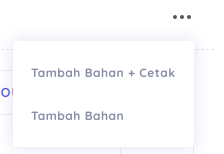
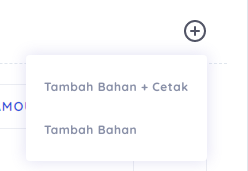
tambah gambar

diff --git a/build/html/searchindex.js b/build/html/searchindex.js
@@ -1,1 +1,1 @@
-Search.setIndex({docnames:["_apps/master-machines","_apps/master-paper-size","_apps/master-paper-types","_apps/menu-transaction","_intro/intro","_intro/langkah-pertama","index"],envversion:{"sphinx.domains.c":2,"sphinx.domains.changeset":1,"sphinx.domains.citation":1,"sphinx.domains.cpp":3,"sphinx.domains.index":1,"sphinx.domains.javascript":2,"sphinx.domains.math":2,"sphinx.domains.python":2,"sphinx.domains.rst":2,"sphinx.domains.std":2,sphinx:56},filenames:["_apps/master-machines.rst","_apps/master-paper-size.rst","_apps/master-paper-types.rst","_apps/menu-transaction.rst","_intro/intro.rst","_intro/langkah-pertama.rst","index.rst"],objects:{},objnames:{},objtypes:{},terms:{"220px":[],"282017":[],CMS:[],_static:[],about:[],ada:3,adalah:[],adsfasdfa:[0,1,2],akan:[3,4,5],aks:5,all:[],anda:3,angka:3,antar:3,apidco:[],aplikasi:6,arkestra:[],asdfalkjlakjfa:[],asdfasdf:[],asdfasdfadf:[0,1,2],asdfasdfasdf:5,asdfasdfasdfasdf:[0,1,2],asdfkajhfjhasdf:5,ata:[3,5],atau:3,banyak:3,bawah:5,beberapa:3,belum:3,bend:3,berapa:3,berisi:3,bersifat:4,biaya:4,bisa:[3,4],bla:[0,1,2],box:3,common:[],content:[],contoh:3,contribut:[],creat:3,custom:4,daftar:[],dahulu:[],dalam:[3,4],dan:3,daniel:[],dapat:3,dari:[3,4],data:[3,4],dengan:[3,4],desain:3,deskripsi:3,detail:[4,6],develop:[],diarahkan:3,diarakan:3,dibawah:5,dibutuhkan:3,dicetak:3,digunakan:[0,1,2,3],diikuti:3,diinginkan:3,diisi:3,dikehendaki:3,diluar:3,disamp:3,disarankan:3,ditanggung:4,django:[],dll:3,email:[],finish:3,form:3,gambar:5,hadir:4,halaman:[5,6],hampir:3,hanya:4,harga:3,haru:[],hasil:3,hitungan:4,http:[],imag:[],img:[],img_logo_:[],indek:6,info:[],ini:[0,1,2,3,4],inputan:4,isi:[],isikan:[0,1,2,3],itu:5,jeni:3,jika:3,jilid:3,juga:3,kami:4,kanan:[3,5],kebutuhan:3,kembali:3,kemudian:[0,1,2,3],kerta:3,keterangan:3,ketika:3,klik:[0,1,2,3,5],kosong:3,kotak:5,langkah:6,langsung:[],lebar:3,lem:3,login:5,login_menu:[],lupa:6,machin:6,maka:3,masuk:[3,6],melakukan:6,melalui:5,melewati:3,mem:4,memasukan:4,membantu:4,memulai:[],menambah:3,menambahkan:6,menampilkan:3,mendaftar:[],menentukan:4,menggunakan:3,menghapu:[3,6],menghitung:[3,4],menginformasikan:4,mengisi:3,mengisikan:3,mengubah:[3,6],mengulang:3,menu:[3,5,6],menyajikan:4,menyarankan:4,mesin:3,modul:6,mudah:4,muncul:[3,5],next:3,oleh:4,order:4,org:[],pada:[0,1,2,3],paper:[0,6],papertyp:[0,1,2],para:4,paramet:4,parameternya:4,password:6,pelaku:4,pelanggan:4,pembuatan:3,pemilihan:3,pemilik:4,pemotongan:3,pencarian:6,pencetakan:3,pendaftaran:6,pengisian:3,perhitungan:[3,4],permintaan:3,persen:3,pertama:[3,6],pilih:3,plano:3,png:[],potong:3,ppn:3,procida:[],produksi:4,prose:3,punya:[],quantiti:3,rangkuman:3,regist:5,ringkasan:3,saat:3,saja:[3,4],salah:3,sama:3,saran:3,satu:3,sebelum:[],segala:4,segera:4,sehingga:4,selanjutnya:4,selesai:3,semua:3,sendiri:4,seperti:5,sesuai:3,set:3,setelah:5,sisa:3,size:6,suatu:3,sudah:3,svg:[],system:4,tabel:3,tambahkan:3,tanda:3,tanpa:3,target:3,tentang:6,terkait:3,terlebih:[],tersebut:3,tetap:3,thumb:[],tidak:3,tinggi:3,tombol:[0,1,2,3,5],transact:6,transaksi:6,transction:6,tyip:[0,1,2],type:6,ukuran:3,untuk:[0,1,2,3,4],upload:[],usaha:4,user:4,validasi:4,warna:3,wikimedia:[],wikipedia:[],wizard:3,yaitu:3,yang:[3,4]},titles:["Menu Machines","Menu Paper Size","Menu Paper Types","Transaction","Tentang Aplikasi Percetakan","Langkah Pertama","Selamat datang di dokumentasi Asisten Percetakan!"],titleterms:{about:[],all:[],apidco:[],aplikasi:[4,5],asisten:6,bahan:3,biaya:3,cetak:3,datang:6,detail:3,document:[],dokumentasi:6,guid:[],indic:6,lain:3,langkah:5,login:[],lupa:5,machin:0,masuk:5,melakukan:5,memulai:[],menambahkan:[0,1,2,3],menghapu:[0,1,2],mengubah:[0,1,2],menu:[0,1,2],paper:[1,2],password:5,pendaftaran:5,percetakan:[4,6],pertama:5,satu:[],selamat:6,size:1,tabl:6,tambah:3,tentang:4,transact:3,transaksi:3,transction:3,type:2,welcom:[]}})
+Search.setIndex({docnames:["_apps/master-machines","_apps/master-paper-size","_apps/master-paper-types","_apps/menu-transaction","_intro/intro","_intro/langkah-pertama","index"],envversion:{"sphinx.domains.c":2,"sphinx.domains.changeset":1,"sphinx.domains.citation":1,"sphinx.domains.cpp":3,"sphinx.domains.index":1,"sphinx.domains.javascript":2,"sphinx.domains.math":2,"sphinx.domains.python":2,"sphinx.domains.rst":2,"sphinx.domains.std":2,sphinx:56},filenames:["_apps/master-machines.rst","_apps/master-paper-size.rst","_apps/master-paper-types.rst","_apps/menu-transaction.rst","_intro/intro.rst","_intro/langkah-pertama.rst","index.rst"],objects:{},objnames:{},objtypes:{},terms:{"220px":[],"282017":[],CMS:[],_static:[],about:[],ada:3,adalah:[],adsfasdfa:[0,1,2],akan:[3,4,5],aks:5,all:[],anda:3,angka:3,antar:3,apidco:[],aplikasi:6,arkestra:[],asdfalkjlakjfa:[],asdfasdf:[],asdfasdfadf:[0,1,2],asdfasdfasdf:5,asdfasdfasdfasdf:[0,1,2],asdfkajhfjhasdf:5,ata:[3,5],atau:3,banyak:3,bawah:5,beberapa:3,belum:3,bend:3,berapa:3,berikut:3,berisi:3,bersifat:4,biaya:4,bisa:[3,4],bla:[0,1,2],box:3,common:[],content:[],contoh:3,contribut:[],creat:3,custom:4,daftar:[],dahulu:[],dalam:[3,4],dan:3,daniel:[],dapat:3,dari:[3,4],data:[3,4],dengan:[3,4],desain:3,deskripsi:3,detail:[4,6],develop:[],diarahkan:3,diarakan:3,dibawah:5,dibutuhkan:3,dicetak:3,digunakan:[0,1,2,3],diikuti:3,diinginkan:3,diisi:3,dikehendaki:3,dilakukan:3,diluar:3,disamp:3,disarankan:3,ditanggung:4,django:[],dll:3,email:[],finish:3,form:3,gambar:5,hadir:4,halaman:[3,5,6],hampir:3,hanya:4,harga:[],haru:[],hasil:3,hitungan:4,http:[],imag:[],img:[],img_logo_:[],indek:6,info:[],informasi:3,ini:[0,1,2,3,4],inputan:4,isi:[],isikan:[0,1,2,3],itu:5,jeni:3,jika:3,jilid:3,juga:3,kami:4,kanan:[3,5],kebutuhan:3,kembali:3,kemudian:[0,1,2,3],kerta:3,keterangan:3,ketika:3,klik:[0,1,2,3,5],kosong:3,kotak:5,lamin:3,langkah:6,langsung:[],lebar:3,lem:3,lipat:3,login:5,login_menu:[],lupa:6,machin:6,maka:3,mase:3,masuk:[3,6],melakukan:6,melalui:5,melewati:3,melihat:3,mem:4,memasukan:4,membantu:4,memulai:[],menambah:3,menambahkan:6,menambhakan:3,menampilkan:3,mendaftar:[],menentukan:4,menggunakan:3,menghapu:[3,6],menghitung:[3,4],menginformasikan:4,mengisi:3,mengisikan:3,mengubah:[3,6],mengulang:3,menu:[3,5,6],menyajikan:4,menyarankan:4,mesin:3,modul:6,mudah:4,mulai:3,muncul:[3,5],next:3,oleh:4,ongko:3,order:4,org:[],pada:[0,1,2,3],paper:[0,6],papertyp:[0,1,2],para:4,paramet:4,parameternya:4,password:6,pelaku:4,pelanggan:4,pembuatan:3,pemilihan:3,pemilik:4,pemotongan:3,pencarian:6,pencetakan:3,pendaftaran:6,pengisian:3,penjelasan:3,perhitungan:[3,4],permintaan:3,persen:3,pertama:[3,6],pilih:3,pisau:3,plano:3,plat:3,plu:3,png:[],pond:3,potong:3,ppn:3,procida:[],produksi:4,prose:3,punya:[],quantiti:3,rangkuman:3,regist:5,ringkasan:3,saat:3,saja:[3,4],salah:3,sama:3,saran:3,satu:3,sebelum:[],segala:4,segera:4,sehingga:4,selanjutnya:4,selesai:3,semua:3,sendiri:4,seperti:5,sesuai:3,set:3,setelah:5,sisa:3,size:6,spot:3,suatu:3,sudah:3,susun:3,svg:[],system:4,tabel:3,tambahkan:3,tanda:3,tanpa:3,target:3,tentang:6,terkait:3,terlebih:[],tersebut:3,tetap:3,thumb:[],tidak:3,tinggi:3,tombol:[0,1,2,3,5],total:3,transact:6,transaksi:6,transction:[],tyip:[0,1,2],type:6,ukuran:3,untuk:[0,1,2,3,4],upload:[],usaha:4,user:4,validasi:4,warna:3,wikimedia:[],wikipedia:[],wizard:3,yaitu:3,yang:[3,4]},titles:["Menu Machines","Menu Paper Size","Menu Paper Types","Transaction","Tentang Aplikasi Percetakan","Langkah Pertama","Selamat datang di dokumentasi Asisten Percetakan!"],titleterms:{about:[],all:[],apidco:[],aplikasi:[4,5],asisten:6,bahan:3,biaya:3,cetak:3,datang:6,detail:3,document:[],dokumentasi:6,guid:[],harga:3,indic:6,item:3,lain:3,langkah:5,login:[],lupa:5,machin:0,masuk:5,melakukan:5,memulai:[],menambahkan:[0,1,2,3],menghapu:[0,1,2],mengubah:[0,1,2],menu:[0,1,2],paper:[1,2],password:5,penawaran:3,pendaftaran:5,percetakan:[4,6],pertama:5,pokok:3,satu:[],selamat:6,size:1,tabl:6,tambah:3,tentang:4,transact:3,transaksi:3,transction:[],type:2,welcom:[]}})

diff --git a/build/html/index.html b/build/html/index.html
@@ -189,7 +189,7 @@
 </li>
 <li class="toctree-l1"><a class="reference internal" href="_apps/menu-transaction.html">Transaction</a><ul>
 <li class="toctree-l2"><a class="reference internal" href="_apps/menu-transaction.html#menambahkan-transaksi">Menambahkan Transaksi</a></li>
-<li class="toctree-l2"><a class="reference internal" href="_apps/menu-transaction.html#detail-transction">Detail Transction</a></li>
+<li class="toctree-l2"><a class="reference internal" href="_apps/menu-transaction.html#detail-transaction">Detail Transaction</a></li>
 </ul>
 </li>
 </ul>

diff --git a/source/_apps/menu-transaction.rst b/source/_apps/menu-transaction.rst
@@ -12,7 +12,7 @@ Klik tombol Tambahkan pada kanan atas tabel, kemudian muncul form ``Create Trans
 - ``Quantity`` dalam angka.
 - ``Ppn`` dalam angka tidak diikuti tanda "%".
 
-Jika sudah selesai semua klik tombol `Create`, maka akan muncul rangkuman transaksi kosong. Klik tombol 3 di box Detail Transaction, akan muncul 2 menu yaitu ``Tambah Bahan + Cetak`` dan ``Tambah Bahan``. 
+Jika sudah selesai semua klik tombol `Create`, maka akan muncul rangkuman transaksi kosong. Klik tombol plus (+) di box Detail Transaction, akan muncul 2 menu yaitu ``Tambah Bahan + Cetak`` dan ``Tambah Bahan``. 
 
 .. image:: /img/menu_tambah.png
 
@@ -75,8 +75,32 @@ Tambah Bahan digunakan untuk menambah perhitungan transaksi bahan tanpa ada ceta
 Tambah Biaya Lain - Lain
 ^^^^^^^^^^^^^^^^^^^^^^^^
 
-Biaya lain - lain ini digunakan untuk perhitungan biaya diluar cetak dan bahan, contoh : Biaya Antar, Biaya Lem, Bending, Jilid, dll. pilih salah satu biaya yang akan anda tambahkan dalam pembuatan transaksi.
+Biaya lain - lain ini digunakan untuk perhitungan biaya diluar cetak dan bahan, contoh : Biaya Antar, Biaya Lem, Bending, Jilid, dll. pilih salah satu biaya yang akan anda tambahkan dalam pembuatan transaksi. Pilih salah satu biaya lain - lain yang akan Anda tambahkan.
 
-Detail Transction
+Detail Transaction
 ------------------
+
+Halaman detail transaction digunakan untuk menampilkan semua informasi terkait transaksi yang dilakukan, mulai dari item - item transaction, harga pokok, harga total dan harga penawaran. berikut penjelasan masing - masing.
+
+Detail Transaction
+^^^^^^^^^^^^^^^^^^
+Detail transaction ini menampilkan semua item - item bahan dan cetak suatu transaksi. Anda dapat menambahkan mengubah item, menambahkan item, menambhakan finishing atau melihat desain potong pada item tersebut.
+
+.. image:: /img/detail_transaction.png
+
+1. Digunakan untuk menambahkan item, Tambah bahan atau Tambah bahan + cetak.
+2. Digunakan untuk menambahkan finishing pada item. Contoh: Laminating, Spot UV, Pond, Pisau Pond, Lipat dan Susun Kertas.
+3. Digunakan untuk menampilkan hasil desain potong.
+4. Digunakan untuk menampilkan detail item. Contoh: Bahan, Ongkos Cetak, Plat, dll.
+5. Digunakan untuk menampilkan, mengubah atau menghapus item tersebut.
+
+
+Detail Item Transaction
+^^^^^^^^^^^^^^^^^^^^^^^
+Biaya Lain - lain
+^^^^^^^^^^^^^^^^^
+Harga Penawaran
+^^^^^^^^^^^^^^^
+Harga Pokok
+^^^^^^^^^^^
 
